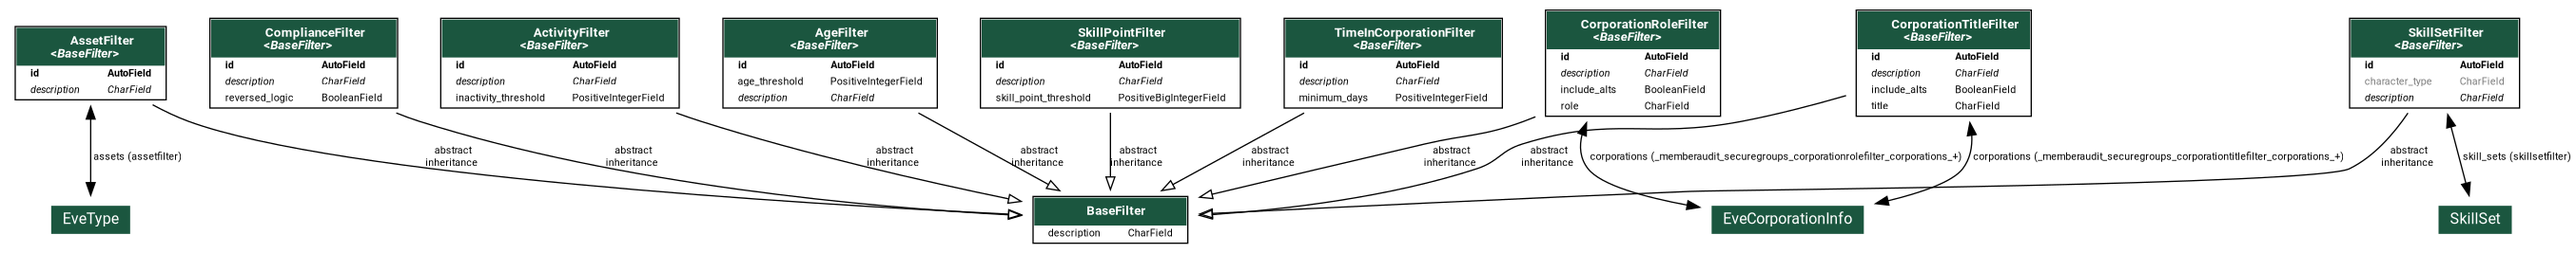
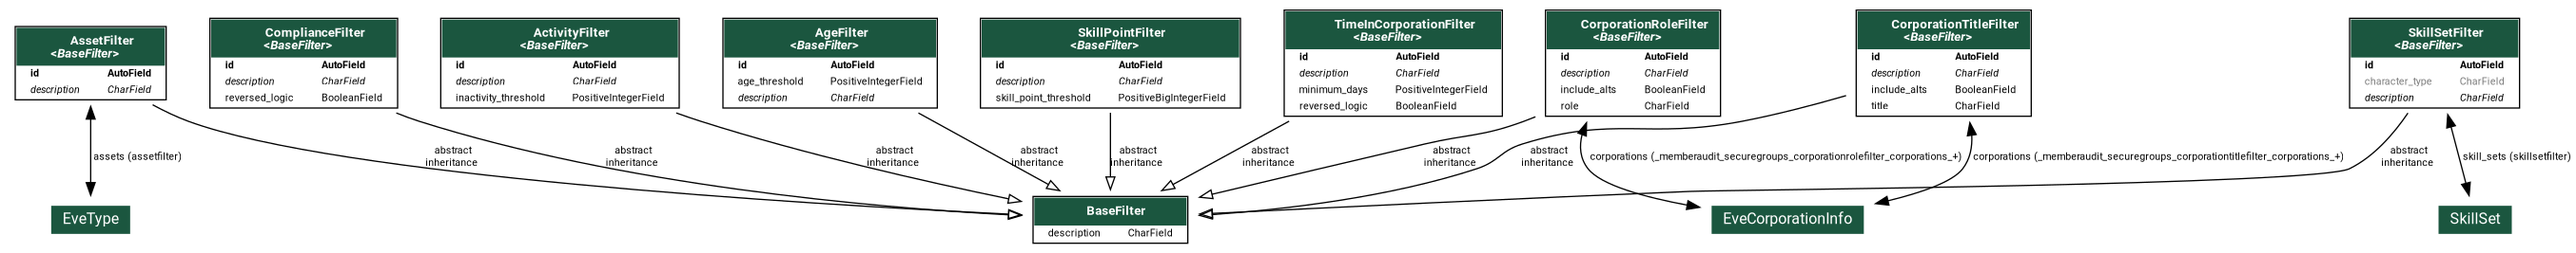
[RELEASE] v1.4.0
## [1.4.0] - 2024-12-31

### Added

- Checkbox to reverse logic for `TimeInCorporationFilter`, which comes in handy when you want to put characters that are not in the corporation for a certain amount of time in a group, like for a probation period.

Changed region(s): [[0.4963, 0.03, 0.5894, 0.4794]]

diff --git a/memberaudit_securegroups/models.py b/memberaudit_securegroups/models.py
@@ -970,7 +970,7 @@ class TimeInCorporationFilter(BaseFilter):
 
     minimum_days = models.PositiveIntegerField(
         default=30,
-        help_text=(
+        help_text=_(
             "Minimum number of days a main character needs to be member "
             "of his/her current corporation."
         ),

diff --git a/memberaudit_securegroups/__init__.py b/memberaudit_securegroups/__init__.py
@@ -2,4 +2,4 @@
 Init module
 """
 
-__version__ = "1.3.1"
+__version__ = "1.4.0"

diff --git a/CHANGELOG.md b/CHANGELOG.md
@@ -35,6 +35,8 @@ Section Order:
 ### Security
 -->
 
+## [1.4.0] - 2024-12-31
+
 ### Added
 
 - Checkbox to reverse logic for `TimeInCorporationFilter`, which comes in handy
